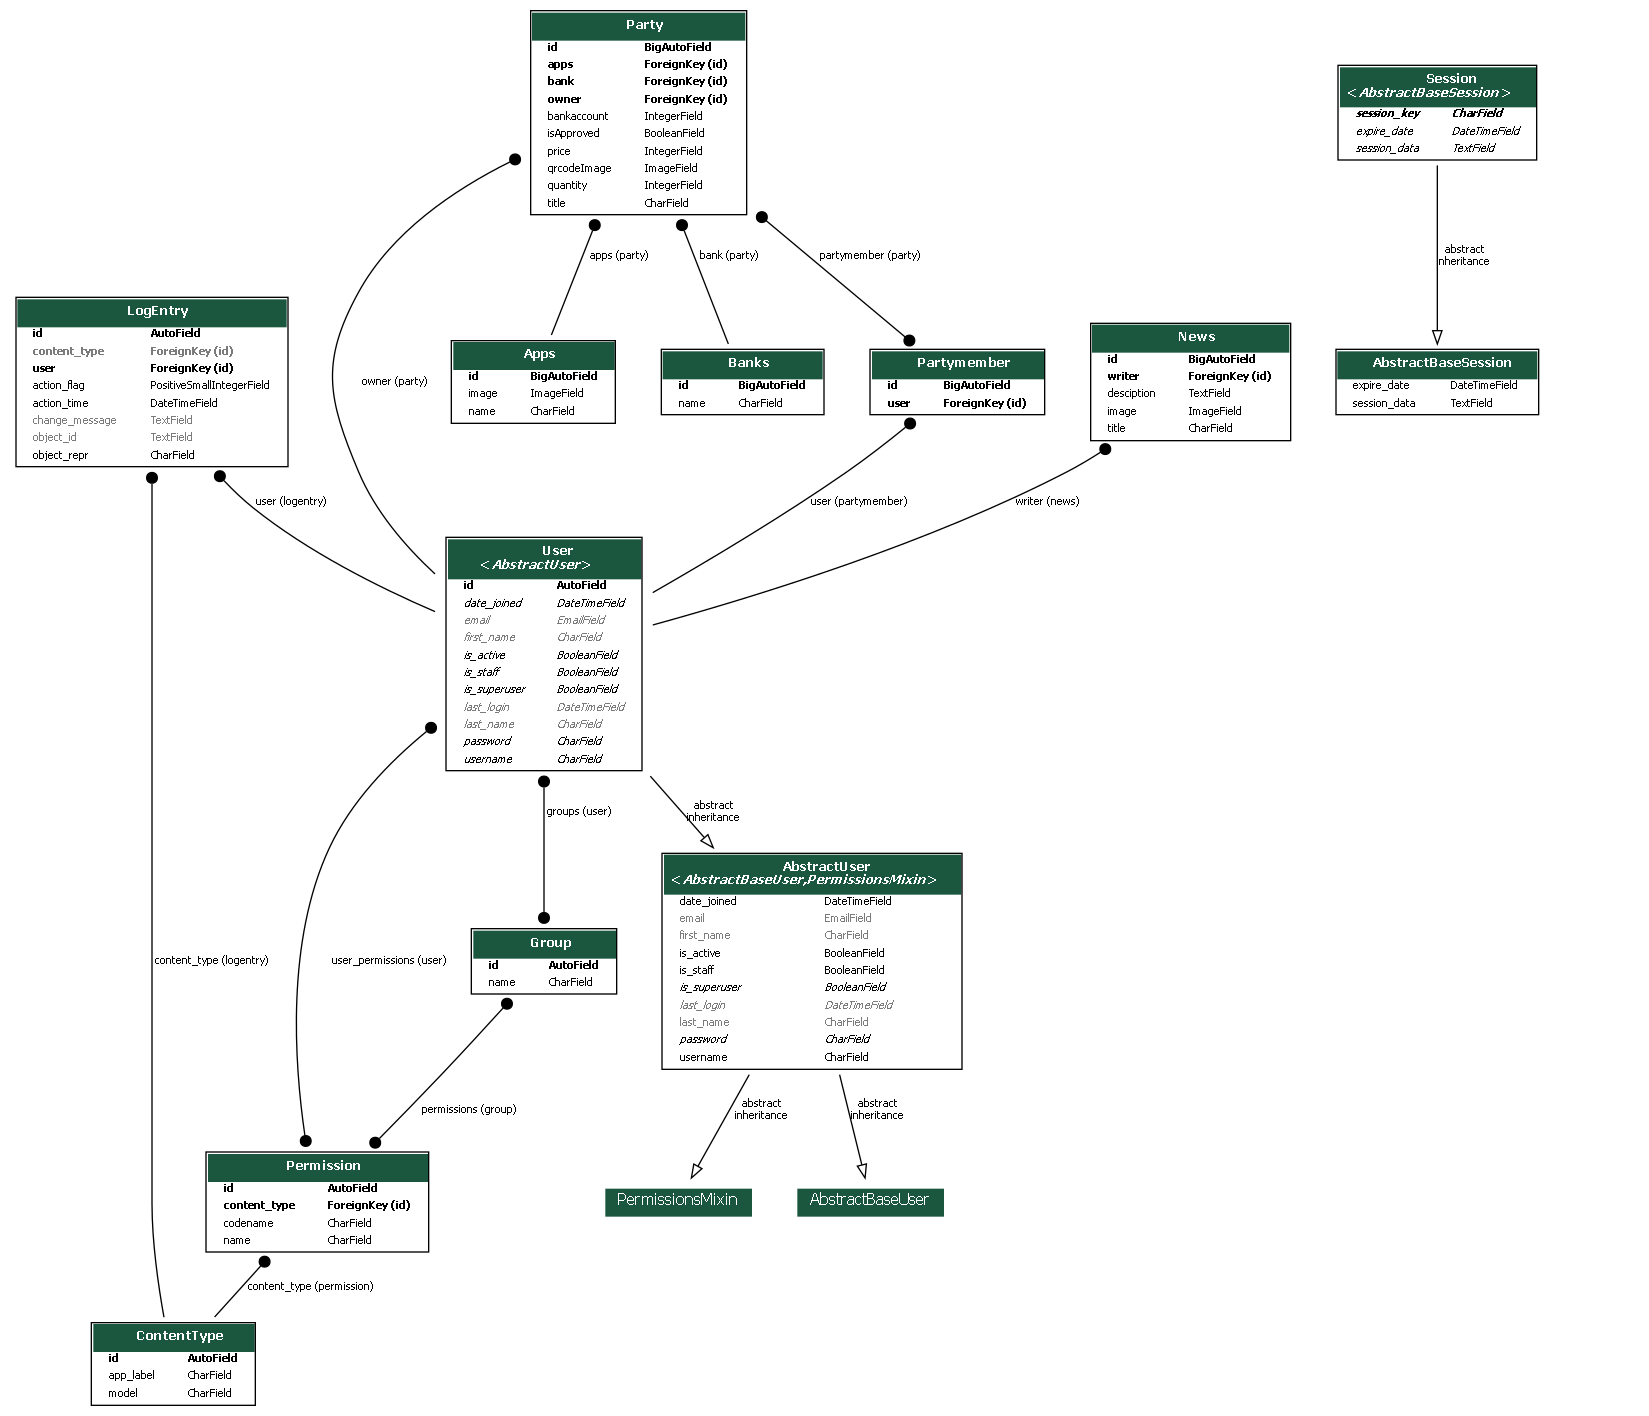
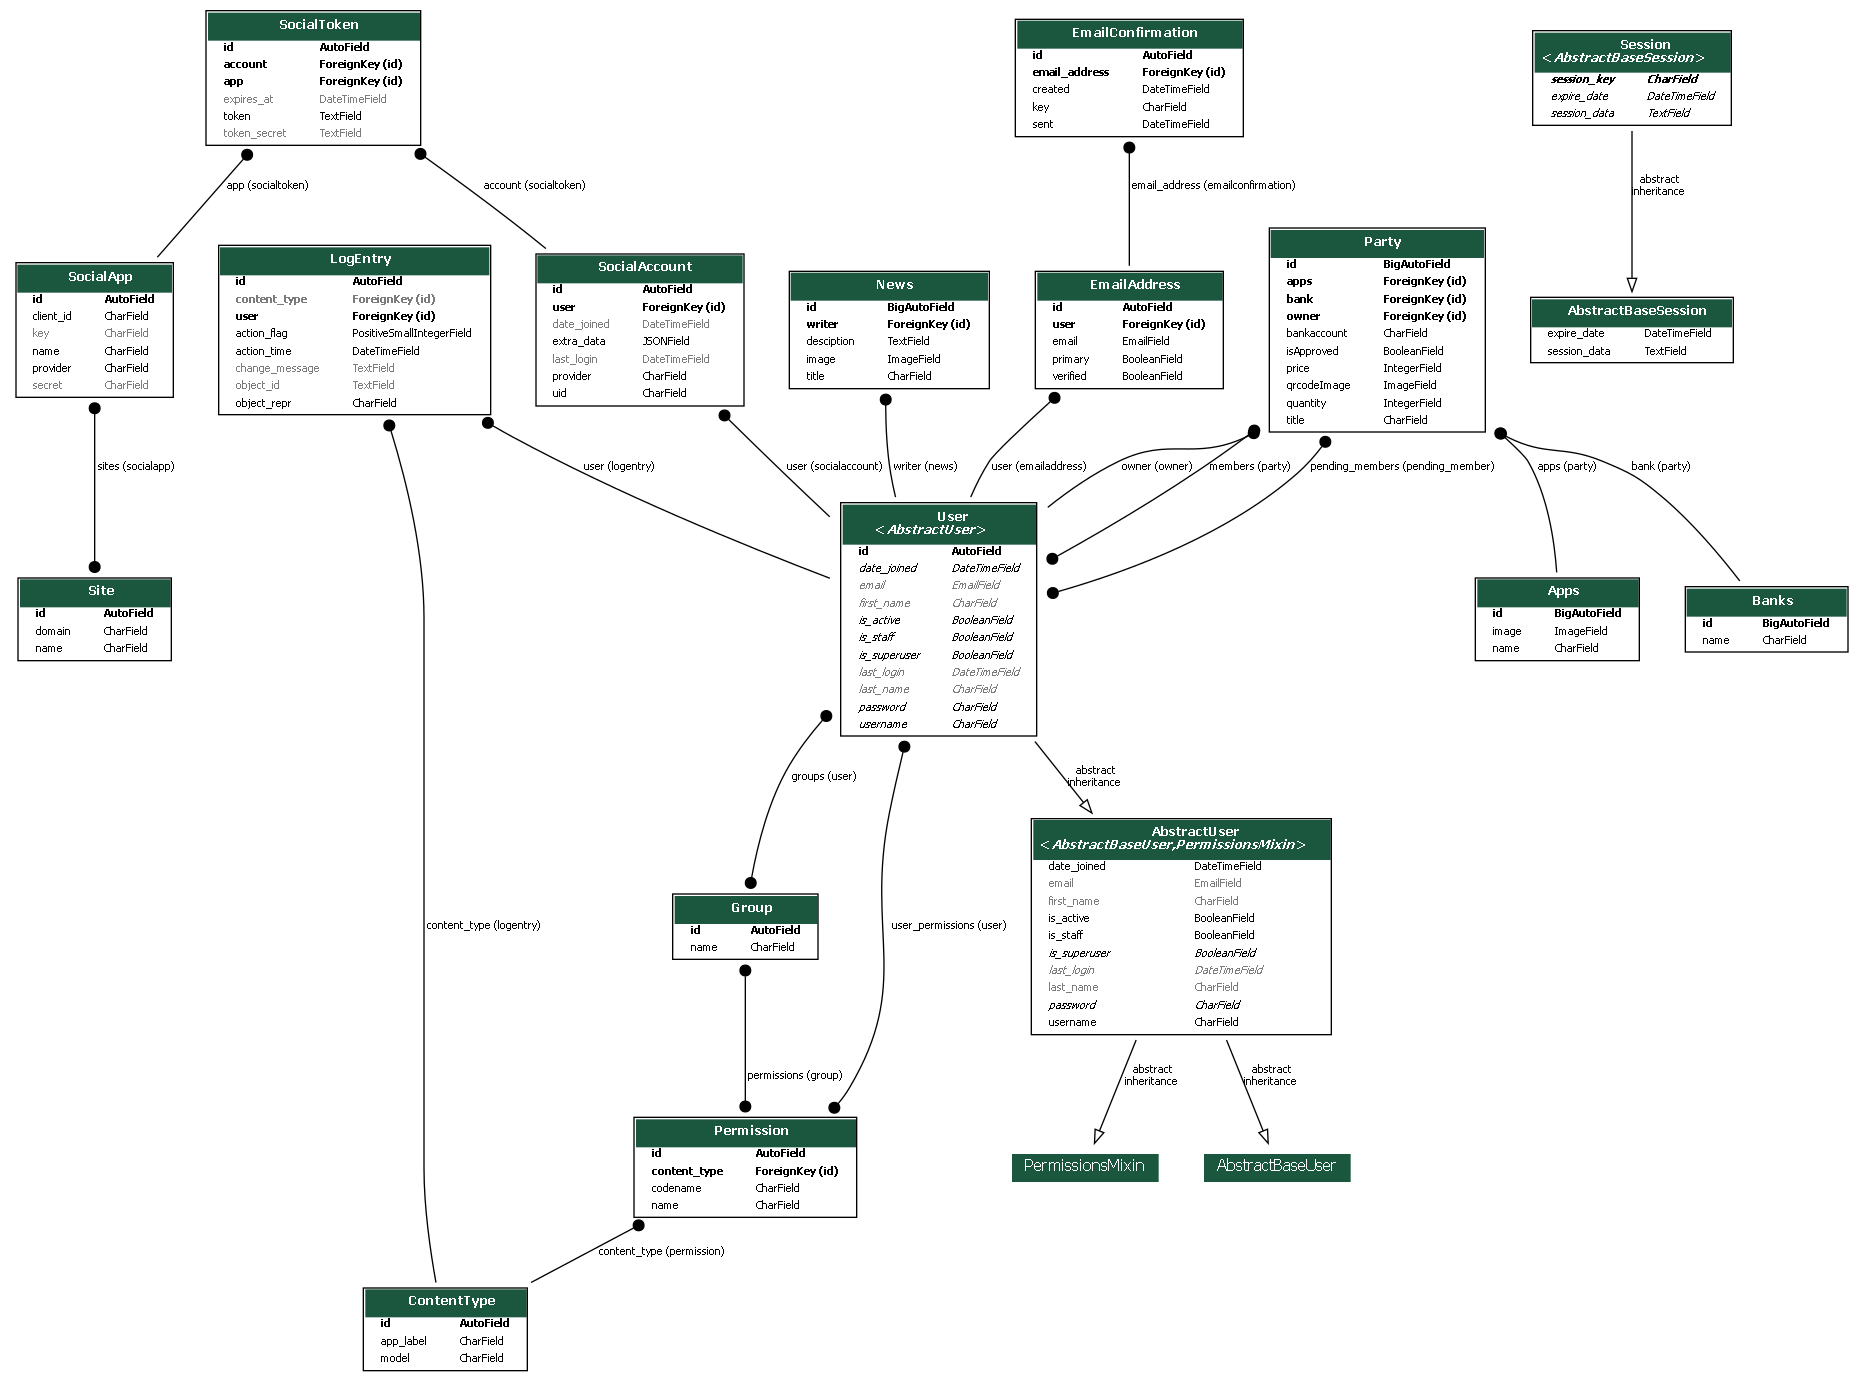
chage

diff --git a/Authenticate/templates/registration/login.html b/Authenticate/templates/registration/login.html
@@ -29,6 +29,12 @@
             {{form.password}}
             {{form.password.errors}}
         </div class="mt-2">
+
+        <div>
+            {% load socialaccount %}
+
+            <a href="{% provider_login_url 'google' %}">Sign in with Google</a>
+        </div>
         
         <div>
             <a href="#"><span class="text-red-700">ลืมรหัสผ่าน</span></a>

diff --git a/HaanKan/settings.py b/HaanKan/settings.py
@@ -31,6 +31,7 @@ ALLOWED_HOSTS = []
 # Application definition
 
 INSTALLED_APPS = [
+    
     "django.contrib.admin",
     "django.contrib.auth",
     "django.contrib.contenttypes",
@@ -41,7 +42,16 @@ INSTALLED_APPS = [
     "Authenticate",
     "Party",
     "Content",
-    "Admin"
+    "Admin",
+    'django.contrib.sites',
+    'allauth',
+    'allauth.account',
+    'allauth.socialaccount',
+    'allauth.socialaccount.providers.google',
+    
+   
+    
+    
     
 ]
 
@@ -94,6 +104,7 @@ DATABASES = {
 }
 
 
+
 # Password validation
 # https://docs.djangoproject.com/en/4.1/ref/settings/#auth-password-validators
 
@@ -104,6 +115,25 @@ AUTH_PASSWORD_VALIDATORS = [
     {"NAME": "django.contrib.auth.password_validation.MinimumLengthValidator",},
     {"NAME": "django.contrib.auth.password_validation.CommonPasswordValidator",},
     {"NAME": "django.contrib.auth.password_validation.NumericPasswordValidator",},
+]
+
+SOCIALACCOUNT_PROVIDERS = {
+    'google': {
+        # For each OAuth based provider, either add a ``SocialApp``
+        # (``socialaccount`` app) containing the required client
+        # credentials, or list them here:
+        'APP': {
+            'client_id': '123',
+            'secret': '456',
+            'key': ''
+        }
+    }
+}
+
+AUTHENTICATION_BACKENDS = [
+    'django.contrib.auth.backends.ModelBackend',
+    'allauth.account.auth_backends.AuthenticationBackend',
+    
 ]
 
 
@@ -133,6 +163,16 @@ DEFAULT_AUTO_FIELD = "django.db.models.BigAutoField"
 
 
 
+SITE_ID = 1
+
+
 #Auth
 LOGIN_REDIRECT_URL="party"
 LOGOUT_REDIRECT_URL='party'
+
+#clinetID
+#220714774120-koqks533mffbng0kfmk8ac3h198c3kpj.apps.googleusercontent.com
+
+
+#secret
+#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

diff --git a/Party/models.py b/Party/models.py
@@ -31,7 +31,7 @@ class Party(models.Model):
     #owner=models.CharField(max_length=500,null=True)
     owner=models.ForeignKey(settings.AUTH_USER_MODEL,on_delete=models.CASCADE,null=True,related_name='owner')
     members=models.ManyToManyField(settings.AUTH_USER_MODEL, blank=True)
-    pending_members = models.ManyToManyField(User, related_name="pending_parties")
+    pending_members = models.ManyToManyField(User, related_name="pending_member")
     title = models.CharField(max_length=500,null=False)
     apps = models.ForeignKey(Apps, on_delete=models.CASCADE)
     quantity = models.IntegerField(default=0,null=True)

diff --git a/Party/migrations/0044_alter_party_pending_members.py b/Party/migrations/0044_alter_party_pending_members.py
@@ -1,0 +1,20 @@
+# Generated by Django 4.0 on 2022-12-15 13:09
+
+from django.conf import settings
+from django.db import migrations, models
+
+
+class Migration(migrations.Migration):
+
+    dependencies = [
+        migrations.swappable_dependency(settings.AUTH_USER_MODEL),
+        ('Party', '0043_party_pending_members'),
+    ]
+
+    operations = [
+        migrations.AlterField(
+            model_name='party',
+            name='pending_members',
+            field=models.ManyToManyField(related_name='pending_member', to=settings.AUTH_USER_MODEL),
+        ),
+    ]

diff --git a/HaanKan/urls.py b/HaanKan/urls.py
@@ -25,8 +25,8 @@ urlpatterns = [
     path("admin/", admin.site.urls),
     path("Admin/", include('Admin.urls')),
     path('user/', include('Authenticate.urls')),
-    path('news/', include('Content.urls'))
-
+    path('news/', include('Content.urls')),
+    path('accounts/', include('allauth.urls')),
     
 ]
 urlpatterns += static(settings.MEDIA_URL, document_root=settings.MEDIA_ROOT)
